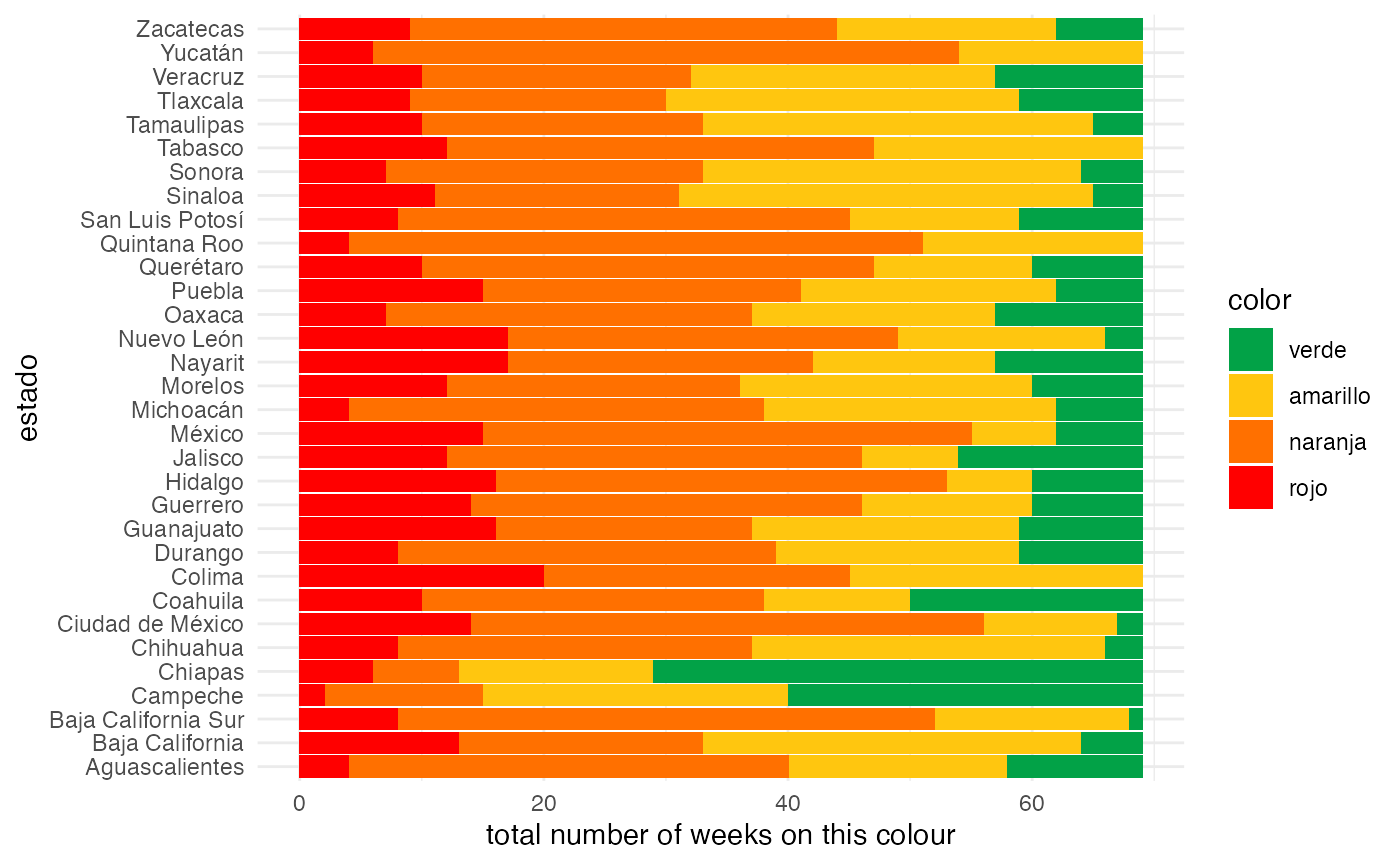
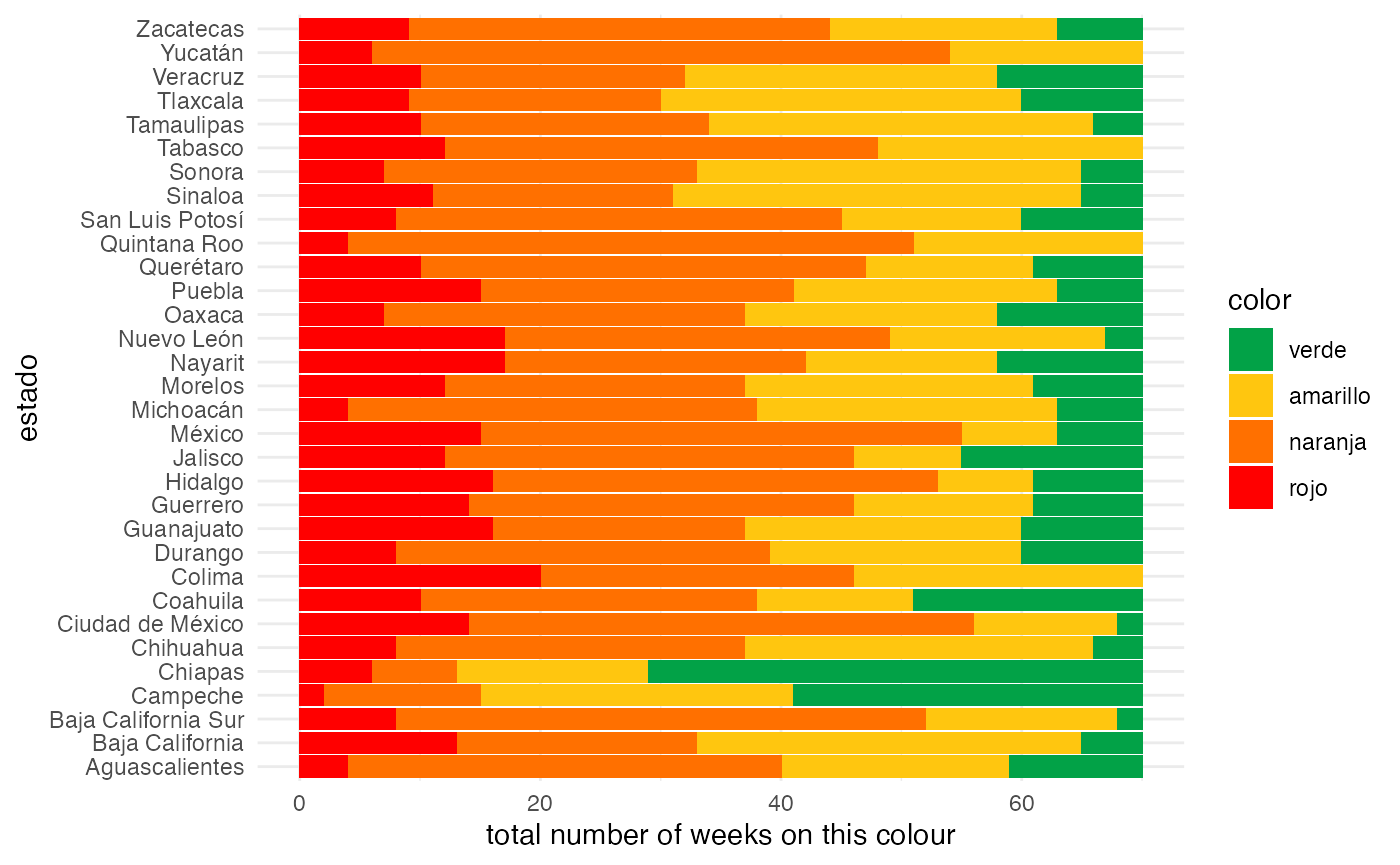
Built site for semaforos: 0.1.0@13181ba

diff --git a/articles/semaforos.html b/articles/semaforos.html
@@ -121,7 +121,7 @@
       <span class="fu"><a href="https://ggplot2.tidyverse.org/reference/labs.html">labs</a></span><span class="op">(</span>title <span class="op">=</span> <span class="fu"><a href="https://rdrr.io/r/base/paste.html">paste</a></span><span class="op">(</span><span class="st">"Semáforos for week"</span>, <span class="va">w</span><span class="op">)</span><span class="op">)</span>
   <span class="op">)</span>
 <span class="op">}</span></code></pre></div>
-<p><img src="semaforos_files/figure-html/maps-ggplot-1.png" width="30%"><img src="semaforos_files/figure-html/maps-ggplot-2.png" width="30%"><img src="semaforos_files/figure-html/maps-ggplot-3.png" width="30%"><img src="semaforos_files/figure-html/maps-ggplot-4.png" width="30%"><img src="semaforos_files/figure-html/maps-ggplot-5.png" width="30%"><img src="semaforos_files/figure-html/maps-ggplot-6.png" width="30%"><img src="semaforos_files/figure-html/maps-ggplot-7.png" width="30%"><img src="semaforos_files/figure-html/maps-ggplot-8.png" width="30%"><img src="semaforos_files/figure-html/maps-ggplot-9.png" width="30%"><img src="semaforos_files/figure-html/maps-ggplot-10.png" width="30%"><img src="semaforos_files/figure-html/maps-ggplot-11.png" width="30%"><img src="semaforos_files/figure-html/maps-ggplot-12.png" width="30%"><img src="semaforos_files/figure-html/maps-ggplot-13.png" width="30%"><img src="semaforos_files/figure-html/maps-ggplot-14.png" width="30%"><img src="semaforos_files/figure-html/maps-ggplot-15.png" width="30%"><img src="semaforos_files/figure-html/maps-ggplot-16.png" width="30%"><img src="semaforos_files/figure-html/maps-ggplot-17.png" width="30%"><img src="semaforos_files/figure-html/maps-ggplot-18.png" width="30%"><img src="semaforos_files/figure-html/maps-ggplot-19.png" width="30%"><img src="semaforos_files/figure-html/maps-ggplot-20.png" width="30%"><img src="semaforos_files/figure-html/maps-ggplot-21.png" width="30%"><img src="semaforos_files/figure-html/maps-ggplot-22.png" width="30%"><img src="semaforos_files/figure-html/maps-ggplot-23.png" width="30%"><img src="semaforos_files/figure-html/maps-ggplot-24.png" width="30%"><img src="semaforos_files/figure-html/maps-ggplot-25.png" width="30%"><img src="semaforos_files/figure-html/maps-ggplot-26.png" width="30%"><img src="semaforos_files/figure-html/maps-ggplot-27.png" width="30%"><img src="semaforos_files/figure-html/maps-ggplot-28.png" width="30%"><img src="semaforos_files/figure-html/maps-ggplot-29.png" width="30%"><img src="semaforos_files/figure-html/maps-ggplot-30.png" width="30%"><img src="semaforos_files/figure-html/maps-ggplot-31.png" width="30%"><img src="semaforos_files/figure-html/maps-ggplot-32.png" width="30%"><img src="semaforos_files/figure-html/maps-ggplot-33.png" width="30%"><img src="semaforos_files/figure-html/maps-ggplot-34.png" width="30%"><img src="semaforos_files/figure-html/maps-ggplot-35.png" width="30%"><img src="semaforos_files/figure-html/maps-ggplot-36.png" width="30%"><img src="semaforos_files/figure-html/maps-ggplot-37.png" width="30%"><img src="semaforos_files/figure-html/maps-ggplot-38.png" width="30%"><img src="semaforos_files/figure-html/maps-ggplot-39.png" width="30%"><img src="semaforos_files/figure-html/maps-ggplot-40.png" width="30%"><img src="semaforos_files/figure-html/maps-ggplot-41.png" width="30%"><img src="semaforos_files/figure-html/maps-ggplot-42.png" width="30%"><img src="semaforos_files/figure-html/maps-ggplot-43.png" width="30%"><img src="semaforos_files/figure-html/maps-ggplot-44.png" width="30%"><img src="semaforos_files/figure-html/maps-ggplot-45.png" width="30%"><img src="semaforos_files/figure-html/maps-ggplot-46.png" width="30%"><img src="semaforos_files/figure-html/maps-ggplot-47.png" width="30%"><img src="semaforos_files/figure-html/maps-ggplot-48.png" width="30%"><img src="semaforos_files/figure-html/maps-ggplot-49.png" width="30%"><img src="semaforos_files/figure-html/maps-ggplot-50.png" width="30%"><img src="semaforos_files/figure-html/maps-ggplot-51.png" width="30%"><img src="semaforos_files/figure-html/maps-ggplot-52.png" width="30%"><img src="semaforos_files/figure-html/maps-ggplot-53.png" width="30%"><img src="semaforos_files/figure-html/maps-ggplot-54.png" width="30%"><img src="semaforos_files/figure-html/maps-ggplot-55.png" width="30%"><img src="semaforos_files/figure-html/maps-ggplot-56.png" width="30%"><img src="semaforos_files/figure-html/maps-ggplot-57.png" width="30%"><img src="semaforos_files/figure-html/maps-ggplot-58.png" width="30%"><img src="semaforos_files/figure-html/maps-ggplot-59.png" width="30%"><img src="semaforos_files/figure-html/maps-ggplot-60.png" width="30%"><img src="semaforos_files/figure-html/maps-ggplot-61.png" width="30%"><img src="semaforos_files/figure-html/maps-ggplot-62.png" width="30%"><img src="semaforos_files/figure-html/maps-ggplot-63.png" width="30%"><img src="semaforos_files/figure-html/maps-ggplot-64.png" width="30%"><img src="semaforos_files/figure-html/maps-ggplot-65.png" width="30%"><img src="semaforos_files/figure-html/maps-ggplot-66.png" width="30%"><img src="semaforos_files/figure-html/maps-ggplot-67.png" width="30%"><img src="semaforos_files/figure-html/maps-ggplot-68.png" width="30%"><img src="semaforos_files/figure-html/maps-ggplot-69.png" width="30%"></p>
+<p><img src="semaforos_files/figure-html/maps-ggplot-1.png" width="30%"><img src="semaforos_files/figure-html/maps-ggplot-2.png" width="30%"><img src="semaforos_files/figure-html/maps-ggplot-3.png" width="30%"><img src="semaforos_files/figure-html/maps-ggplot-4.png" width="30%"><img src="semaforos_files/figure-html/maps-ggplot-5.png" width="30%"><img src="semaforos_files/figure-html/maps-ggplot-6.png" width="30%"><img src="semaforos_files/figure-html/maps-ggplot-7.png" width="30%"><img src="semaforos_files/figure-html/maps-ggplot-8.png" width="30%"><img src="semaforos_files/figure-html/maps-ggplot-9.png" width="30%"><img src="semaforos_files/figure-html/maps-ggplot-10.png" width="30%"><img src="semaforos_files/figure-html/maps-ggplot-11.png" width="30%"><img src="semaforos_files/figure-html/maps-ggplot-12.png" width="30%"><img src="semaforos_files/figure-html/maps-ggplot-13.png" width="30%"><img src="semaforos_files/figure-html/maps-ggplot-14.png" width="30%"><img src="semaforos_files/figure-html/maps-ggplot-15.png" width="30%"><img src="semaforos_files/figure-html/maps-ggplot-16.png" width="30%"><img src="semaforos_files/figure-html/maps-ggplot-17.png" width="30%"><img src="semaforos_files/figure-html/maps-ggplot-18.png" width="30%"><img src="semaforos_files/figure-html/maps-ggplot-19.png" width="30%"><img src="semaforos_files/figure-html/maps-ggplot-20.png" width="30%"><img src="semaforos_files/figure-html/maps-ggplot-21.png" width="30%"><img src="semaforos_files/figure-html/maps-ggplot-22.png" width="30%"><img src="semaforos_files/figure-html/maps-ggplot-23.png" width="30%"><img src="semaforos_files/figure-html/maps-ggplot-24.png" width="30%"><img src="semaforos_files/figure-html/maps-ggplot-25.png" width="30%"><img src="semaforos_files/figure-html/maps-ggplot-26.png" width="30%"><img src="semaforos_files/figure-html/maps-ggplot-27.png" width="30%"><img src="semaforos_files/figure-html/maps-ggplot-28.png" width="30%"><img src="semaforos_files/figure-html/maps-ggplot-29.png" width="30%"><img src="semaforos_files/figure-html/maps-ggplot-30.png" width="30%"><img src="semaforos_files/figure-html/maps-ggplot-31.png" width="30%"><img src="semaforos_files/figure-html/maps-ggplot-32.png" width="30%"><img src="semaforos_files/figure-html/maps-ggplot-33.png" width="30%"><img src="semaforos_files/figure-html/maps-ggplot-34.png" width="30%"><img src="semaforos_files/figure-html/maps-ggplot-35.png" width="30%"><img src="semaforos_files/figure-html/maps-ggplot-36.png" width="30%"><img src="semaforos_files/figure-html/maps-ggplot-37.png" width="30%"><img src="semaforos_files/figure-html/maps-ggplot-38.png" width="30%"><img src="semaforos_files/figure-html/maps-ggplot-39.png" width="30%"><img src="semaforos_files/figure-html/maps-ggplot-40.png" width="30%"><img src="semaforos_files/figure-html/maps-ggplot-41.png" width="30%"><img src="semaforos_files/figure-html/maps-ggplot-42.png" width="30%"><img src="semaforos_files/figure-html/maps-ggplot-43.png" width="30%"><img src="semaforos_files/figure-html/maps-ggplot-44.png" width="30%"><img src="semaforos_files/figure-html/maps-ggplot-45.png" width="30%"><img src="semaforos_files/figure-html/maps-ggplot-46.png" width="30%"><img src="semaforos_files/figure-html/maps-ggplot-47.png" width="30%"><img src="semaforos_files/figure-html/maps-ggplot-48.png" width="30%"><img src="semaforos_files/figure-html/maps-ggplot-49.png" width="30%"><img src="semaforos_files/figure-html/maps-ggplot-50.png" width="30%"><img src="semaforos_files/figure-html/maps-ggplot-51.png" width="30%"><img src="semaforos_files/figure-html/maps-ggplot-52.png" width="30%"><img src="semaforos_files/figure-html/maps-ggplot-53.png" width="30%"><img src="semaforos_files/figure-html/maps-ggplot-54.png" width="30%"><img src="semaforos_files/figure-html/maps-ggplot-55.png" width="30%"><img src="semaforos_files/figure-html/maps-ggplot-56.png" width="30%"><img src="semaforos_files/figure-html/maps-ggplot-57.png" width="30%"><img src="semaforos_files/figure-html/maps-ggplot-58.png" width="30%"><img src="semaforos_files/figure-html/maps-ggplot-59.png" width="30%"><img src="semaforos_files/figure-html/maps-ggplot-60.png" width="30%"><img src="semaforos_files/figure-html/maps-ggplot-61.png" width="30%"><img src="semaforos_files/figure-html/maps-ggplot-62.png" width="30%"><img src="semaforos_files/figure-html/maps-ggplot-63.png" width="30%"><img src="semaforos_files/figure-html/maps-ggplot-64.png" width="30%"><img src="semaforos_files/figure-html/maps-ggplot-65.png" width="30%"><img src="semaforos_files/figure-html/maps-ggplot-66.png" width="30%"><img src="semaforos_files/figure-html/maps-ggplot-67.png" width="30%"><img src="semaforos_files/figure-html/maps-ggplot-68.png" width="30%"><img src="semaforos_files/figure-html/maps-ggplot-69.png" width="30%"><img src="semaforos_files/figure-html/maps-ggplot-70.png" width="30%"></p>
 </div>
 <div id="duration-of-each-semáforo" class="section level2">
 <h2 class="hasAnchor">

diff --git a/reference/semaforos_get.html b/reference/semaforos_get.html
@@ -215,13 +215,13 @@ in the format <code>%Y-W%W</code> (e.g., "2021-W02")</p></li>
 #&gt; 4 amarillo amarillo amarillo amarillo amarillo amarillo amarillo amarillo
 #&gt; 5    verde    verde    verde    verde    verde    verde    verde    verde
 #&gt; 6 amarillo amarillo amarillo amarillo amarillo amarillo amarillo amarillo
-#&gt;   2021-W32 2021-W33 2021-W34 2021-W35 2021-W36 2021-W37 2021-W38
-#&gt; 1 amarillo amarillo  naranja  naranja  naranja  naranja amarillo
-#&gt; 2 amarillo amarillo amarillo amarillo amarillo amarillo amarillo
-#&gt; 3  naranja  naranja amarillo amarillo amarillo amarillo    verde
-#&gt; 4 amarillo amarillo  naranja  naranja  naranja  naranja amarillo
-#&gt; 5    verde    verde    verde    verde    verde    verde    verde
-#&gt; 6 amarillo amarillo amarillo amarillo    verde    verde    verde</div><div class='input'>
+#&gt;   2021-W32 2021-W33 2021-W34 2021-W35 2021-W36 2021-W37 2021-W38 2021-W39
+#&gt; 1 amarillo amarillo  naranja  naranja  naranja  naranja amarillo amarillo
+#&gt; 2 amarillo amarillo amarillo amarillo amarillo amarillo amarillo amarillo
+#&gt; 3  naranja  naranja amarillo amarillo amarillo amarillo    verde    verde
+#&gt; 4 amarillo amarillo  naranja  naranja  naranja  naranja amarillo amarillo
+#&gt; 5    verde    verde    verde    verde    verde    verde    verde    verde
+#&gt; 6 amarillo amarillo amarillo amarillo    verde    verde    verde    verde</div><div class='input'>
 <span class='va'>sl</span> <span class='op'>&lt;-</span> <span class='fu'>semaforos_get</span><span class='op'>(</span>format <span class='op'>=</span> <span class='st'>"long"</span><span class='op'>)</span>
 <span class='fu'><a href='https://rdrr.io/r/utils/head.html'>head</a></span><span class='op'>(</span><span class='va'>sl</span><span class='op'>)</span>
 </div><div class='output co'>#&gt;                estado year week color
